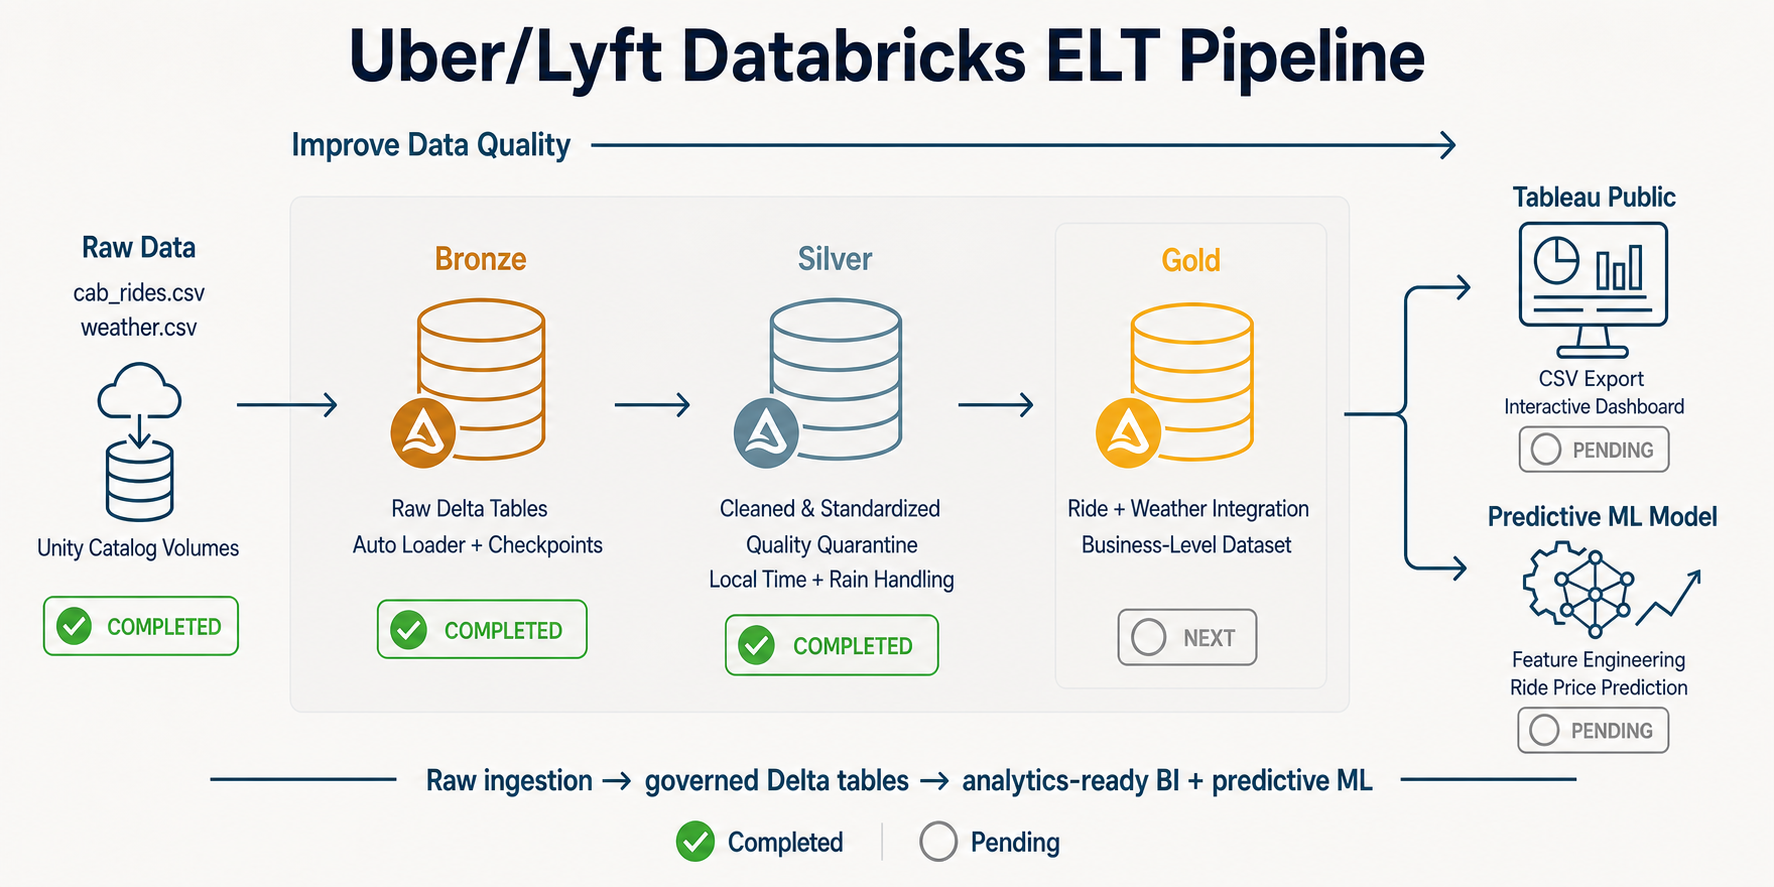
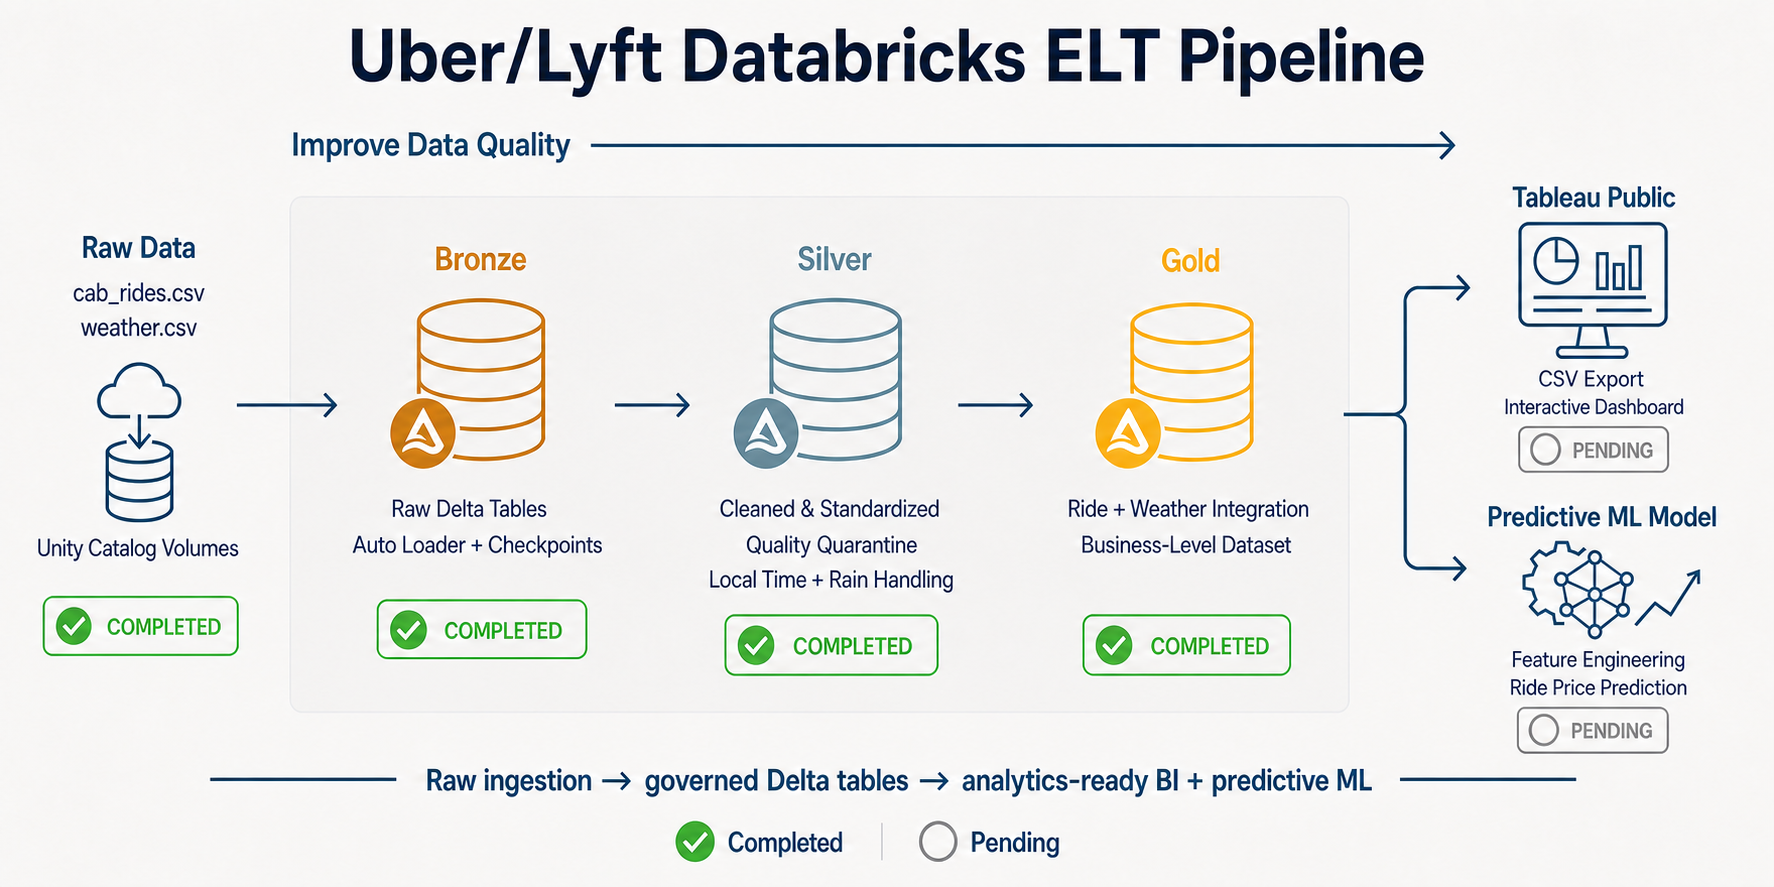
Update Gold pipeline progress

diff --git a/README.md b/README.md
@@ -4,7 +4,7 @@ An end-to-end Databricks ELT project that ingests Uber/Lyft ride and Boston weat
 
 ## Medallion Architecture Progress
 
-![Uber/Lyft Databricks ELT architecture showing completed Bronze and Silver layers with planned Tableau and predictive ML outputs](images/uber_lyft_databricks_tableau_ml_architecture.png)
+![Uber/Lyft Databricks ELT architecture showing completed Bronze, Silver, and Gold layers with planned Tableau and predictive ML outputs](images/uber_lyft_databricks_tableau_ml_architecture.png)
 
 ## Pipeline Status
 
@@ -14,7 +14,7 @@ An end-to-end Databricks ELT project that ingests Uber/Lyft ride and Boston weat
 | Unity Catalog volumes | ✅ Completed | Governed storage for source files, checkpoints, and exports |
 | Bronze | ✅ Completed | Incremental raw ingestion with Auto Loader |
 | Silver | ✅ Completed | Cleaning, standardization, enrichment, and quality control |
-| Gold | ⬜ Pending | Integrate rides with weather and create business-ready fields |
+| Gold | ✅ Completed | Integrate fare quotes with source and destination weather and publish a curated analytics table |
 | Tableau export | ⬜ Pending | Export the Gold dataset for Tableau Public |
 | Tableau dashboard | ⬜ Pending | Build interactive business visualizations |
 | Predictive ML model | ⬜ Pending | Engineer model features and predict ride prices |
@@ -38,7 +38,7 @@ rideshare_elt
 │   ├── cab_rides_quarantine
 │   └── weather_clean
 └── gold
-    └── Pending
+    └── rides_weather_enriched
 ```
 
 The project also uses Unity Catalog volumes for cab-rides files, weather files, pipeline checkpoints, and future Tableau exports.
@@ -112,6 +112,27 @@ This pipeline distinguishes between expected source nulls and ingestion failures
 - Missing rain remains auditable through `rain` and `rain_was_missing`, while `rain_amount` provides an analysis-ready value.
 - Bronze retains raw values; Silver applies business and quality rules.
 
+## Gold Layer
+
+The Gold layer combines every valid Silver fare quote with the nearest weather observation at both its source and destination. Both matches use the fare-query timestamp and a maximum tolerance of 60 minutes.
+
+### Gold Delta Table
+
+- `rideshare_elt.gold.rides_weather_enriched`
+
+### Gold Validation
+
+| Metric | Result |
+|---|---:|
+| Rows | 637,976 |
+| Unique fare-quote IDs | 637,976 |
+| Curated columns | 36 |
+| Source-weather match rate | 100% |
+| Destination-weather match rate | 100% |
+| Weather-tolerance violations | 0 |
+
+The curated table maintains exactly one row per valid fare quote and retains identifiers, provider and product attributes, source and destination locations, fare measures, query-time fields, endpoint weather features, and Gold refresh metadata.
+
 ## Notebooks
 
 | Notebook | Status |
@@ -119,8 +140,9 @@ This pipeline distinguishes between expected source nulls and ingestion failures
 | `00_Environment_Validation.py` | ✅ Completed |
 | `01_Bronze_Ingestion.py` | ✅ Completed |
 | `02_Silver_Transformations.py` | ✅ Completed |
-| `03_Gold_Analytics.py` | ⬜ Next |
-| `04_ML_Price_Prediction.py` | ⬜ Planned |
+| `03_Gold_Analytics.py` | ✅ Completed |
+| `04_Tableau_Export.py` | ⬜ Next |
+| `05_ML_Price_Prediction.py` | ⬜ Planned |
 
 ## Repository Structure
 
@@ -129,7 +151,8 @@ Uber_Lyft_Databricks_ELT_Tableau
 ├── notebooks
 │   ├── 00_Environment_Validation.py
 │   ├── 01_Bronze_Ingestion.py
-│   └── 02_Silver_Transformations.py
+│   ├── 02_Silver_Transformations.py
+│   └── 03_Gold_Analytics.py
 ├── sql
 ├── data
 ├── tableau
@@ -142,7 +165,7 @@ Uber_Lyft_Databricks_ELT_Tableau
 
 ## Tableau Public Delivery
 
-Tableau Public does not provide the same live Databricks connectivity as the full Tableau products. The planned Gold dataset will therefore be exported as an analytics-ready CSV and loaded into Tableau Public as an extract.
+Tableau Public does not provide the same live Databricks connectivity as the full Tableau products. The completed Gold dataset will therefore be exported as an analytics-ready CSV and loaded into Tableau Public as an extract.
 
 ## Predictive ML Delivery
 
@@ -150,4 +173,4 @@ After the Tableau dashboard is complete, the same governed Gold data will suppor
 
 ## Next Phase
 
-The immediate next phase is the Gold layer: connect every valid ride to the closest appropriate weather observation, create business-ready dimensions and measures, validate match quality, and produce the Tableau export. After the Tableau Public dashboard is delivered, the project will continue with feature engineering, model training, evaluation, and ride-price prediction.
+The immediate next phase is to export the curated Gold table as a Tableau-ready CSV and build the Tableau Public dashboard. After the dashboard is delivered, the project will continue with feature engineering, model training, evaluation, and ride-price prediction.
